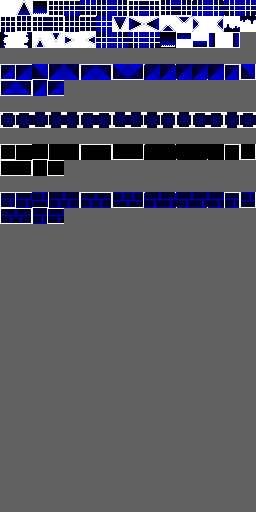
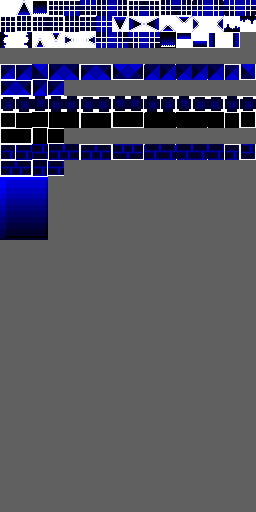
Import new ground

Changed region(s): [[0.0, 0.1875, 1.0, 0.4688]]

diff --git a/src/metatiles.c b/src/metatiles.c
@@ -60,5 +60,220 @@ const SCR_ENTRY metatiles[][5] = {
     Metatile("SLAB_DOWN",  SE_BUILD(0x00, 0, 0, 0), SE_BUILD(0x00, 0, 0, 0),      SE_BUILD(0x4e, 0, 0, V_FLIP), SE_BUILD(0x4f, 0, 0, V_FLIP), COL_SLAB_BOTTOM)
     Metatile("SLAB_LEFT",  SE_BUILD(0x50, 0, 0, 0), SE_BUILD(0x00, 0, 0, 0),      SE_BUILD(0x51, 0, 0, 0),      SE_BUILD(0x00, 0, 0, 0),      COL_NONE)
     Metatile("SLAB_RIGHT", SE_BUILD(0x00, 0, 0, 0), SE_BUILD(0x50, 0, H_FLIP, 0), SE_BUILD(0x00, 0, 0, 0),      SE_BUILD(0x51, 0, H_FLIP, 0), COL_NONE)
+
+    Metatile("EMPTY",    SE_BUILD(0, 0, 0, 0), SE_BUILD(0, 0, 0, 0), SE_BUILD(0, 0, 0, 0), SE_BUILD(0, 0, 0, 0), COL_NONE)
+
+
+    Metatile("EMPTY",    SE_BUILD(0, 0, 0, 0), SE_BUILD(0, 0, 0, 0), SE_BUILD(0, 0, 0, 0), SE_BUILD(0, 0, 0, 0), COL_NONE) // 0x30
+    Metatile("EMPTY",    SE_BUILD(0, 0, 0, 0), SE_BUILD(0, 0, 0, 0), SE_BUILD(0, 0, 0, 0), SE_BUILD(0, 0, 0, 0), COL_NONE)
+    Metatile("EMPTY",    SE_BUILD(0, 0, 0, 0), SE_BUILD(0, 0, 0, 0), SE_BUILD(0, 0, 0, 0), SE_BUILD(0, 0, 0, 0), COL_NONE)
+    Metatile("EMPTY",    SE_BUILD(0, 0, 0, 0), SE_BUILD(0, 0, 0, 0), SE_BUILD(0, 0, 0, 0), SE_BUILD(0, 0, 0, 0), COL_NONE)
+    Metatile("EMPTY",    SE_BUILD(0, 0, 0, 0), SE_BUILD(0, 0, 0, 0), SE_BUILD(0, 0, 0, 0), SE_BUILD(0, 0, 0, 0), COL_NONE)
+    Metatile("EMPTY",    SE_BUILD(0, 0, 0, 0), SE_BUILD(0, 0, 0, 0), SE_BUILD(0, 0, 0, 0), SE_BUILD(0, 0, 0, 0), COL_NONE)
+    Metatile("EMPTY",    SE_BUILD(0, 0, 0, 0), SE_BUILD(0, 0, 0, 0), SE_BUILD(0, 0, 0, 0), SE_BUILD(0, 0, 0, 0), COL_NONE)
+    Metatile("EMPTY",    SE_BUILD(0, 0, 0, 0), SE_BUILD(0, 0, 0, 0), SE_BUILD(0, 0, 0, 0), SE_BUILD(0, 0, 0, 0), COL_NONE)
+    Metatile("EMPTY",    SE_BUILD(0, 0, 0, 0), SE_BUILD(0, 0, 0, 0), SE_BUILD(0, 0, 0, 0), SE_BUILD(0, 0, 0, 0), COL_NONE) // 0x38
+    Metatile("EMPTY",    SE_BUILD(0, 0, 0, 0), SE_BUILD(0, 0, 0, 0), SE_BUILD(0, 0, 0, 0), SE_BUILD(0, 0, 0, 0), COL_NONE)
+    Metatile("EMPTY",    SE_BUILD(0, 0, 0, 0), SE_BUILD(0, 0, 0, 0), SE_BUILD(0, 0, 0, 0), SE_BUILD(0, 0, 0, 0), COL_NONE)
+    Metatile("EMPTY",    SE_BUILD(0, 0, 0, 0), SE_BUILD(0, 0, 0, 0), SE_BUILD(0, 0, 0, 0), SE_BUILD(0, 0, 0, 0), COL_NONE)
+    Metatile("EMPTY",    SE_BUILD(0, 0, 0, 0), SE_BUILD(0, 0, 0, 0), SE_BUILD(0, 0, 0, 0), SE_BUILD(0, 0, 0, 0), COL_NONE)
+    Metatile("EMPTY",    SE_BUILD(0, 0, 0, 0), SE_BUILD(0, 0, 0, 0), SE_BUILD(0, 0, 0, 0), SE_BUILD(0, 0, 0, 0), COL_NONE)
+    Metatile("EMPTY",    SE_BUILD(0, 0, 0, 0), SE_BUILD(0, 0, 0, 0), SE_BUILD(0, 0, 0, 0), SE_BUILD(0, 0, 0, 0), COL_NONE)
+    Metatile("EMPTY",    SE_BUILD(0, 0, 0, 0), SE_BUILD(0, 0, 0, 0), SE_BUILD(0, 0, 0, 0), SE_BUILD(0, 0, 0, 0), COL_NONE)
+
+    Metatile("EMPTY",    SE_BUILD(0, 0, 0, 0), SE_BUILD(0, 0, 0, 0), SE_BUILD(0, 0, 0, 0), SE_BUILD(0, 0, 0, 0), COL_NONE) // 0x40
+    Metatile("EMPTY",    SE_BUILD(0, 0, 0, 0), SE_BUILD(0, 0, 0, 0), SE_BUILD(0, 0, 0, 0), SE_BUILD(0, 0, 0, 0), COL_NONE)
+    Metatile("EMPTY",    SE_BUILD(0, 0, 0, 0), SE_BUILD(0, 0, 0, 0), SE_BUILD(0, 0, 0, 0), SE_BUILD(0, 0, 0, 0), COL_NONE)
+    Metatile("EMPTY",    SE_BUILD(0, 0, 0, 0), SE_BUILD(0, 0, 0, 0), SE_BUILD(0, 0, 0, 0), SE_BUILD(0, 0, 0, 0), COL_NONE)
+    Metatile("EMPTY",    SE_BUILD(0, 0, 0, 0), SE_BUILD(0, 0, 0, 0), SE_BUILD(0, 0, 0, 0), SE_BUILD(0, 0, 0, 0), COL_NONE)
+    Metatile("EMPTY",    SE_BUILD(0, 0, 0, 0), SE_BUILD(0, 0, 0, 0), SE_BUILD(0, 0, 0, 0), SE_BUILD(0, 0, 0, 0), COL_NONE)
+    Metatile("EMPTY",    SE_BUILD(0, 0, 0, 0), SE_BUILD(0, 0, 0, 0), SE_BUILD(0, 0, 0, 0), SE_BUILD(0, 0, 0, 0), COL_NONE)
+    Metatile("EMPTY",    SE_BUILD(0, 0, 0, 0), SE_BUILD(0, 0, 0, 0), SE_BUILD(0, 0, 0, 0), SE_BUILD(0, 0, 0, 0), COL_NONE)
+    Metatile("EMPTY",    SE_BUILD(0, 0, 0, 0), SE_BUILD(0, 0, 0, 0), SE_BUILD(0, 0, 0, 0), SE_BUILD(0, 0, 0, 0), COL_NONE) // 0x48
+    Metatile("EMPTY",    SE_BUILD(0, 0, 0, 0), SE_BUILD(0, 0, 0, 0), SE_BUILD(0, 0, 0, 0), SE_BUILD(0, 0, 0, 0), COL_NONE)
+    Metatile("EMPTY",    SE_BUILD(0, 0, 0, 0), SE_BUILD(0, 0, 0, 0), SE_BUILD(0, 0, 0, 0), SE_BUILD(0, 0, 0, 0), COL_NONE)
+    Metatile("EMPTY",    SE_BUILD(0, 0, 0, 0), SE_BUILD(0, 0, 0, 0), SE_BUILD(0, 0, 0, 0), SE_BUILD(0, 0, 0, 0), COL_NONE)
+    Metatile("EMPTY",    SE_BUILD(0, 0, 0, 0), SE_BUILD(0, 0, 0, 0), SE_BUILD(0, 0, 0, 0), SE_BUILD(0, 0, 0, 0), COL_NONE)
+    Metatile("EMPTY",    SE_BUILD(0, 0, 0, 0), SE_BUILD(0, 0, 0, 0), SE_BUILD(0, 0, 0, 0), SE_BUILD(0, 0, 0, 0), COL_NONE)
+    Metatile("EMPTY",    SE_BUILD(0, 0, 0, 0), SE_BUILD(0, 0, 0, 0), SE_BUILD(0, 0, 0, 0), SE_BUILD(0, 0, 0, 0), COL_NONE)
+    Metatile("EMPTY",    SE_BUILD(0, 0, 0, 0), SE_BUILD(0, 0, 0, 0), SE_BUILD(0, 0, 0, 0), SE_BUILD(0, 0, 0, 0), COL_NONE)
+
+    Metatile("EMPTY",    SE_BUILD(0, 0, 0, 0), SE_BUILD(0, 0, 0, 0), SE_BUILD(0, 0, 0, 0), SE_BUILD(0, 0, 0, 0), COL_NONE) // 0x50
+    Metatile("EMPTY",    SE_BUILD(0, 0, 0, 0), SE_BUILD(0, 0, 0, 0), SE_BUILD(0, 0, 0, 0), SE_BUILD(0, 0, 0, 0), COL_NONE)
+    Metatile("EMPTY",    SE_BUILD(0, 0, 0, 0), SE_BUILD(0, 0, 0, 0), SE_BUILD(0, 0, 0, 0), SE_BUILD(0, 0, 0, 0), COL_NONE)
+    Metatile("EMPTY",    SE_BUILD(0, 0, 0, 0), SE_BUILD(0, 0, 0, 0), SE_BUILD(0, 0, 0, 0), SE_BUILD(0, 0, 0, 0), COL_NONE)
+    Metatile("EMPTY",    SE_BUILD(0, 0, 0, 0), SE_BUILD(0, 0, 0, 0), SE_BUILD(0, 0, 0, 0), SE_BUILD(0, 0, 0, 0), COL_NONE)
+    Metatile("EMPTY",    SE_BUILD(0, 0, 0, 0), SE_BUILD(0, 0, 0, 0), SE_BUILD(0, 0, 0, 0), SE_BUILD(0, 0, 0, 0), COL_NONE)
+    Metatile("EMPTY",    SE_BUILD(0, 0, 0, 0), SE_BUILD(0, 0, 0, 0), SE_BUILD(0, 0, 0, 0), SE_BUILD(0, 0, 0, 0), COL_NONE)
+    Metatile("EMPTY",    SE_BUILD(0, 0, 0, 0), SE_BUILD(0, 0, 0, 0), SE_BUILD(0, 0, 0, 0), SE_BUILD(0, 0, 0, 0), COL_NONE)
+    Metatile("EMPTY",    SE_BUILD(0, 0, 0, 0), SE_BUILD(0, 0, 0, 0), SE_BUILD(0, 0, 0, 0), SE_BUILD(0, 0, 0, 0), COL_NONE) // 0x58
+    Metatile("EMPTY",    SE_BUILD(0, 0, 0, 0), SE_BUILD(0, 0, 0, 0), SE_BUILD(0, 0, 0, 0), SE_BUILD(0, 0, 0, 0), COL_NONE)
+    Metatile("EMPTY",    SE_BUILD(0, 0, 0, 0), SE_BUILD(0, 0, 0, 0), SE_BUILD(0, 0, 0, 0), SE_BUILD(0, 0, 0, 0), COL_NONE)
+    Metatile("EMPTY",    SE_BUILD(0, 0, 0, 0), SE_BUILD(0, 0, 0, 0), SE_BUILD(0, 0, 0, 0), SE_BUILD(0, 0, 0, 0), COL_NONE)
+    Metatile("EMPTY",    SE_BUILD(0, 0, 0, 0), SE_BUILD(0, 0, 0, 0), SE_BUILD(0, 0, 0, 0), SE_BUILD(0, 0, 0, 0), COL_NONE)
+    Metatile("EMPTY",    SE_BUILD(0, 0, 0, 0), SE_BUILD(0, 0, 0, 0), SE_BUILD(0, 0, 0, 0), SE_BUILD(0, 0, 0, 0), COL_NONE)
+    Metatile("EMPTY",    SE_BUILD(0, 0, 0, 0), SE_BUILD(0, 0, 0, 0), SE_BUILD(0, 0, 0, 0), SE_BUILD(0, 0, 0, 0), COL_NONE)
+    Metatile("EMPTY",    SE_BUILD(0, 0, 0, 0), SE_BUILD(0, 0, 0, 0), SE_BUILD(0, 0, 0, 0), SE_BUILD(0, 0, 0, 0), COL_NONE)
+
+    Metatile("EMPTY",    SE_BUILD(0, 0, 0, 0), SE_BUILD(0, 0, 0, 0), SE_BUILD(0, 0, 0, 0), SE_BUILD(0, 0, 0, 0), COL_NONE) // 0x60
+    Metatile("EMPTY",    SE_BUILD(0, 0, 0, 0), SE_BUILD(0, 0, 0, 0), SE_BUILD(0, 0, 0, 0), SE_BUILD(0, 0, 0, 0), COL_NONE)
+    Metatile("EMPTY",    SE_BUILD(0, 0, 0, 0), SE_BUILD(0, 0, 0, 0), SE_BUILD(0, 0, 0, 0), SE_BUILD(0, 0, 0, 0), COL_NONE)
+    Metatile("EMPTY",    SE_BUILD(0, 0, 0, 0), SE_BUILD(0, 0, 0, 0), SE_BUILD(0, 0, 0, 0), SE_BUILD(0, 0, 0, 0), COL_NONE)
+    Metatile("EMPTY",    SE_BUILD(0, 0, 0, 0), SE_BUILD(0, 0, 0, 0), SE_BUILD(0, 0, 0, 0), SE_BUILD(0, 0, 0, 0), COL_NONE)
+    Metatile("EMPTY",    SE_BUILD(0, 0, 0, 0), SE_BUILD(0, 0, 0, 0), SE_BUILD(0, 0, 0, 0), SE_BUILD(0, 0, 0, 0), COL_NONE)
+    Metatile("EMPTY",    SE_BUILD(0, 0, 0, 0), SE_BUILD(0, 0, 0, 0), SE_BUILD(0, 0, 0, 0), SE_BUILD(0, 0, 0, 0), COL_NONE)
+    Metatile("EMPTY",    SE_BUILD(0, 0, 0, 0), SE_BUILD(0, 0, 0, 0), SE_BUILD(0, 0, 0, 0), SE_BUILD(0, 0, 0, 0), COL_NONE)
+    Metatile("EMPTY",    SE_BUILD(0, 0, 0, 0), SE_BUILD(0, 0, 0, 0), SE_BUILD(0, 0, 0, 0), SE_BUILD(0, 0, 0, 0), COL_NONE) // 0x68
+    Metatile("EMPTY",    SE_BUILD(0, 0, 0, 0), SE_BUILD(0, 0, 0, 0), SE_BUILD(0, 0, 0, 0), SE_BUILD(0, 0, 0, 0), COL_NONE)
+    Metatile("EMPTY",    SE_BUILD(0, 0, 0, 0), SE_BUILD(0, 0, 0, 0), SE_BUILD(0, 0, 0, 0), SE_BUILD(0, 0, 0, 0), COL_NONE)
+    Metatile("EMPTY",    SE_BUILD(0, 0, 0, 0), SE_BUILD(0, 0, 0, 0), SE_BUILD(0, 0, 0, 0), SE_BUILD(0, 0, 0, 0), COL_NONE)
+    Metatile("EMPTY",    SE_BUILD(0, 0, 0, 0), SE_BUILD(0, 0, 0, 0), SE_BUILD(0, 0, 0, 0), SE_BUILD(0, 0, 0, 0), COL_NONE)
+    Metatile("EMPTY",    SE_BUILD(0, 0, 0, 0), SE_BUILD(0, 0, 0, 0), SE_BUILD(0, 0, 0, 0), SE_BUILD(0, 0, 0, 0), COL_NONE)
+    Metatile("EMPTY",    SE_BUILD(0, 0, 0, 0), SE_BUILD(0, 0, 0, 0), SE_BUILD(0, 0, 0, 0), SE_BUILD(0, 0, 0, 0), COL_NONE)
+    Metatile("EMPTY",    SE_BUILD(0, 0, 0, 0), SE_BUILD(0, 0, 0, 0), SE_BUILD(0, 0, 0, 0), SE_BUILD(0, 0, 0, 0), COL_NONE)
+    
+    Metatile("EMPTY",    SE_BUILD(0, 0, 0, 0), SE_BUILD(0, 0, 0, 0), SE_BUILD(0, 0, 0, 0), SE_BUILD(0, 0, 0, 0), COL_NONE) // 0x70
+    Metatile("EMPTY",    SE_BUILD(0, 0, 0, 0), SE_BUILD(0, 0, 0, 0), SE_BUILD(0, 0, 0, 0), SE_BUILD(0, 0, 0, 0), COL_NONE)
+    Metatile("EMPTY",    SE_BUILD(0, 0, 0, 0), SE_BUILD(0, 0, 0, 0), SE_BUILD(0, 0, 0, 0), SE_BUILD(0, 0, 0, 0), COL_NONE)
+    Metatile("EMPTY",    SE_BUILD(0, 0, 0, 0), SE_BUILD(0, 0, 0, 0), SE_BUILD(0, 0, 0, 0), SE_BUILD(0, 0, 0, 0), COL_NONE)
+    Metatile("EMPTY",    SE_BUILD(0, 0, 0, 0), SE_BUILD(0, 0, 0, 0), SE_BUILD(0, 0, 0, 0), SE_BUILD(0, 0, 0, 0), COL_NONE)
+    Metatile("EMPTY",    SE_BUILD(0, 0, 0, 0), SE_BUILD(0, 0, 0, 0), SE_BUILD(0, 0, 0, 0), SE_BUILD(0, 0, 0, 0), COL_NONE)
+    Metatile("EMPTY",    SE_BUILD(0, 0, 0, 0), SE_BUILD(0, 0, 0, 0), SE_BUILD(0, 0, 0, 0), SE_BUILD(0, 0, 0, 0), COL_NONE)
+    Metatile("EMPTY",    SE_BUILD(0, 0, 0, 0), SE_BUILD(0, 0, 0, 0), SE_BUILD(0, 0, 0, 0), SE_BUILD(0, 0, 0, 0), COL_NONE)
+    Metatile("EMPTY",    SE_BUILD(0, 0, 0, 0), SE_BUILD(0, 0, 0, 0), SE_BUILD(0, 0, 0, 0), SE_BUILD(0, 0, 0, 0), COL_NONE) // 0x78
+    Metatile("EMPTY",    SE_BUILD(0, 0, 0, 0), SE_BUILD(0, 0, 0, 0), SE_BUILD(0, 0, 0, 0), SE_BUILD(0, 0, 0, 0), COL_NONE)
+    Metatile("EMPTY",    SE_BUILD(0, 0, 0, 0), SE_BUILD(0, 0, 0, 0), SE_BUILD(0, 0, 0, 0), SE_BUILD(0, 0, 0, 0), COL_NONE)
+    Metatile("EMPTY",    SE_BUILD(0, 0, 0, 0), SE_BUILD(0, 0, 0, 0), SE_BUILD(0, 0, 0, 0), SE_BUILD(0, 0, 0, 0), COL_NONE)
+    Metatile("EMPTY",    SE_BUILD(0, 0, 0, 0), SE_BUILD(0, 0, 0, 0), SE_BUILD(0, 0, 0, 0), SE_BUILD(0, 0, 0, 0), COL_NONE)
+    Metatile("EMPTY",    SE_BUILD(0, 0, 0, 0), SE_BUILD(0, 0, 0, 0), SE_BUILD(0, 0, 0, 0), SE_BUILD(0, 0, 0, 0), COL_NONE)
+    Metatile("EMPTY",    SE_BUILD(0, 0, 0, 0), SE_BUILD(0, 0, 0, 0), SE_BUILD(0, 0, 0, 0), SE_BUILD(0, 0, 0, 0), COL_NONE)
+    Metatile("EMPTY",    SE_BUILD(0, 0, 0, 0), SE_BUILD(0, 0, 0, 0), SE_BUILD(0, 0, 0, 0), SE_BUILD(0, 0, 0, 0), COL_NONE)
+
+    
+    
+    Metatile("EMPTY",    SE_BUILD(0, 0, 0, 0), SE_BUILD(0, 0, 0, 0), SE_BUILD(0, 0, 0, 0), SE_BUILD(0, 0, 0, 0), COL_NONE) // 0x80
+    Metatile("EMPTY",    SE_BUILD(0, 0, 0, 0), SE_BUILD(0, 0, 0, 0), SE_BUILD(0, 0, 0, 0), SE_BUILD(0, 0, 0, 0), COL_NONE)
+    Metatile("EMPTY",    SE_BUILD(0, 0, 0, 0), SE_BUILD(0, 0, 0, 0), SE_BUILD(0, 0, 0, 0), SE_BUILD(0, 0, 0, 0), COL_NONE)
+    Metatile("EMPTY",    SE_BUILD(0, 0, 0, 0), SE_BUILD(0, 0, 0, 0), SE_BUILD(0, 0, 0, 0), SE_BUILD(0, 0, 0, 0), COL_NONE)
+    Metatile("EMPTY",    SE_BUILD(0, 0, 0, 0), SE_BUILD(0, 0, 0, 0), SE_BUILD(0, 0, 0, 0), SE_BUILD(0, 0, 0, 0), COL_NONE)
+    Metatile("EMPTY",    SE_BUILD(0, 0, 0, 0), SE_BUILD(0, 0, 0, 0), SE_BUILD(0, 0, 0, 0), SE_BUILD(0, 0, 0, 0), COL_NONE)
+    Metatile("EMPTY",    SE_BUILD(0, 0, 0, 0), SE_BUILD(0, 0, 0, 0), SE_BUILD(0, 0, 0, 0), SE_BUILD(0, 0, 0, 0), COL_NONE)
+    Metatile("EMPTY",    SE_BUILD(0, 0, 0, 0), SE_BUILD(0, 0, 0, 0), SE_BUILD(0, 0, 0, 0), SE_BUILD(0, 0, 0, 0), COL_NONE)
+    Metatile("EMPTY",    SE_BUILD(0, 0, 0, 0), SE_BUILD(0, 0, 0, 0), SE_BUILD(0, 0, 0, 0), SE_BUILD(0, 0, 0, 0), COL_NONE) // 0x88
+    Metatile("EMPTY",    SE_BUILD(0, 0, 0, 0), SE_BUILD(0, 0, 0, 0), SE_BUILD(0, 0, 0, 0), SE_BUILD(0, 0, 0, 0), COL_NONE)
+    Metatile("EMPTY",    SE_BUILD(0, 0, 0, 0), SE_BUILD(0, 0, 0, 0), SE_BUILD(0, 0, 0, 0), SE_BUILD(0, 0, 0, 0), COL_NONE)
+    Metatile("EMPTY",    SE_BUILD(0, 0, 0, 0), SE_BUILD(0, 0, 0, 0), SE_BUILD(0, 0, 0, 0), SE_BUILD(0, 0, 0, 0), COL_NONE)
+    Metatile("EMPTY",    SE_BUILD(0, 0, 0, 0), SE_BUILD(0, 0, 0, 0), SE_BUILD(0, 0, 0, 0), SE_BUILD(0, 0, 0, 0), COL_NONE)
+    Metatile("EMPTY",    SE_BUILD(0, 0, 0, 0), SE_BUILD(0, 0, 0, 0), SE_BUILD(0, 0, 0, 0), SE_BUILD(0, 0, 0, 0), COL_NONE)
+    Metatile("EMPTY",    SE_BUILD(0, 0, 0, 0), SE_BUILD(0, 0, 0, 0), SE_BUILD(0, 0, 0, 0), SE_BUILD(0, 0, 0, 0), COL_NONE)
+    Metatile("EMPTY",    SE_BUILD(0, 0, 0, 0), SE_BUILD(0, 0, 0, 0), SE_BUILD(0, 0, 0, 0), SE_BUILD(0, 0, 0, 0), COL_NONE)
+
+    
+    
+    Metatile("EMPTY",    SE_BUILD(0, 0, 0, 0), SE_BUILD(0, 0, 0, 0), SE_BUILD(0, 0, 0, 0), SE_BUILD(0, 0, 0, 0), COL_NONE) // 0x90
+    Metatile("EMPTY",    SE_BUILD(0, 0, 0, 0), SE_BUILD(0, 0, 0, 0), SE_BUILD(0, 0, 0, 0), SE_BUILD(0, 0, 0, 0), COL_NONE)
+    Metatile("EMPTY",    SE_BUILD(0, 0, 0, 0), SE_BUILD(0, 0, 0, 0), SE_BUILD(0, 0, 0, 0), SE_BUILD(0, 0, 0, 0), COL_NONE)
+    Metatile("EMPTY",    SE_BUILD(0, 0, 0, 0), SE_BUILD(0, 0, 0, 0), SE_BUILD(0, 0, 0, 0), SE_BUILD(0, 0, 0, 0), COL_NONE)
+    Metatile("EMPTY",    SE_BUILD(0, 0, 0, 0), SE_BUILD(0, 0, 0, 0), SE_BUILD(0, 0, 0, 0), SE_BUILD(0, 0, 0, 0), COL_NONE)
+    Metatile("EMPTY",    SE_BUILD(0, 0, 0, 0), SE_BUILD(0, 0, 0, 0), SE_BUILD(0, 0, 0, 0), SE_BUILD(0, 0, 0, 0), COL_NONE)
+    Metatile("EMPTY",    SE_BUILD(0, 0, 0, 0), SE_BUILD(0, 0, 0, 0), SE_BUILD(0, 0, 0, 0), SE_BUILD(0, 0, 0, 0), COL_NONE)
+    Metatile("EMPTY",    SE_BUILD(0, 0, 0, 0), SE_BUILD(0, 0, 0, 0), SE_BUILD(0, 0, 0, 0), SE_BUILD(0, 0, 0, 0), COL_NONE)
+    Metatile("EMPTY",    SE_BUILD(0, 0, 0, 0), SE_BUILD(0, 0, 0, 0), SE_BUILD(0, 0, 0, 0), SE_BUILD(0, 0, 0, 0), COL_NONE) // 0x98
+    Metatile("EMPTY",    SE_BUILD(0, 0, 0, 0), SE_BUILD(0, 0, 0, 0), SE_BUILD(0, 0, 0, 0), SE_BUILD(0, 0, 0, 0), COL_NONE)
+    Metatile("EMPTY",    SE_BUILD(0, 0, 0, 0), SE_BUILD(0, 0, 0, 0), SE_BUILD(0, 0, 0, 0), SE_BUILD(0, 0, 0, 0), COL_NONE)
+    Metatile("EMPTY",    SE_BUILD(0, 0, 0, 0), SE_BUILD(0, 0, 0, 0), SE_BUILD(0, 0, 0, 0), SE_BUILD(0, 0, 0, 0), COL_NONE)
+    Metatile("EMPTY",    SE_BUILD(0, 0, 0, 0), SE_BUILD(0, 0, 0, 0), SE_BUILD(0, 0, 0, 0), SE_BUILD(0, 0, 0, 0), COL_NONE)
+    Metatile("EMPTY",    SE_BUILD(0, 0, 0, 0), SE_BUILD(0, 0, 0, 0), SE_BUILD(0, 0, 0, 0), SE_BUILD(0, 0, 0, 0), COL_NONE)
+    Metatile("EMPTY",    SE_BUILD(0, 0, 0, 0), SE_BUILD(0, 0, 0, 0), SE_BUILD(0, 0, 0, 0), SE_BUILD(0, 0, 0, 0), COL_NONE)
+    Metatile("EMPTY",    SE_BUILD(0, 0, 0, 0), SE_BUILD(0, 0, 0, 0), SE_BUILD(0, 0, 0, 0), SE_BUILD(0, 0, 0, 0), COL_NONE)
+
+    
+    
+    Metatile("EMPTY",    SE_BUILD(0, 0, 0, 0), SE_BUILD(0, 0, 0, 0), SE_BUILD(0, 0, 0, 0), SE_BUILD(0, 0, 0, 0), COL_NONE) // 0xA0
+    Metatile("EMPTY",    SE_BUILD(0, 0, 0, 0), SE_BUILD(0, 0, 0, 0), SE_BUILD(0, 0, 0, 0), SE_BUILD(0, 0, 0, 0), COL_NONE)
+    Metatile("EMPTY",    SE_BUILD(0, 0, 0, 0), SE_BUILD(0, 0, 0, 0), SE_BUILD(0, 0, 0, 0), SE_BUILD(0, 0, 0, 0), COL_NONE)
+    Metatile("EMPTY",    SE_BUILD(0, 0, 0, 0), SE_BUILD(0, 0, 0, 0), SE_BUILD(0, 0, 0, 0), SE_BUILD(0, 0, 0, 0), COL_NONE)
+    Metatile("EMPTY",    SE_BUILD(0, 0, 0, 0), SE_BUILD(0, 0, 0, 0), SE_BUILD(0, 0, 0, 0), SE_BUILD(0, 0, 0, 0), COL_NONE)
+    Metatile("EMPTY",    SE_BUILD(0, 0, 0, 0), SE_BUILD(0, 0, 0, 0), SE_BUILD(0, 0, 0, 0), SE_BUILD(0, 0, 0, 0), COL_NONE)
+    Metatile("EMPTY",    SE_BUILD(0, 0, 0, 0), SE_BUILD(0, 0, 0, 0), SE_BUILD(0, 0, 0, 0), SE_BUILD(0, 0, 0, 0), COL_NONE)
+    Metatile("EMPTY",    SE_BUILD(0, 0, 0, 0), SE_BUILD(0, 0, 0, 0), SE_BUILD(0, 0, 0, 0), SE_BUILD(0, 0, 0, 0), COL_NONE)
+    Metatile("EMPTY",    SE_BUILD(0, 0, 0, 0), SE_BUILD(0, 0, 0, 0), SE_BUILD(0, 0, 0, 0), SE_BUILD(0, 0, 0, 0), COL_NONE) // 0xA8
+    Metatile("EMPTY",    SE_BUILD(0, 0, 0, 0), SE_BUILD(0, 0, 0, 0), SE_BUILD(0, 0, 0, 0), SE_BUILD(0, 0, 0, 0), COL_NONE)
+    Metatile("EMPTY",    SE_BUILD(0, 0, 0, 0), SE_BUILD(0, 0, 0, 0), SE_BUILD(0, 0, 0, 0), SE_BUILD(0, 0, 0, 0), COL_NONE)
+    Metatile("EMPTY",    SE_BUILD(0, 0, 0, 0), SE_BUILD(0, 0, 0, 0), SE_BUILD(0, 0, 0, 0), SE_BUILD(0, 0, 0, 0), COL_NONE)
+    Metatile("EMPTY",    SE_BUILD(0, 0, 0, 0), SE_BUILD(0, 0, 0, 0), SE_BUILD(0, 0, 0, 0), SE_BUILD(0, 0, 0, 0), COL_NONE)
+    Metatile("EMPTY",    SE_BUILD(0, 0, 0, 0), SE_BUILD(0, 0, 0, 0), SE_BUILD(0, 0, 0, 0), SE_BUILD(0, 0, 0, 0), COL_NONE)
+    Metatile("EMPTY",    SE_BUILD(0, 0, 0, 0), SE_BUILD(0, 0, 0, 0), SE_BUILD(0, 0, 0, 0), SE_BUILD(0, 0, 0, 0), COL_NONE)
+    Metatile("EMPTY",    SE_BUILD(0, 0, 0, 0), SE_BUILD(0, 0, 0, 0), SE_BUILD(0, 0, 0, 0), SE_BUILD(0, 0, 0, 0), COL_NONE)
+
+    
+    
+    Metatile("GROUND_1",    SE_BUILD(0x180, 4, 0, 0), SE_BUILD(0x181, 4, 0, 0), SE_BUILD(0x190, 4, 0, 0), SE_BUILD(0x191, 4, 0, 0), COL_ALL) // 0xB0
+    Metatile("GROUND_2",    SE_BUILD(0x181, 4, 0, 0), SE_BUILD(0x181, 4, 0, 0), SE_BUILD(0x191, 4, 0, 0), SE_BUILD(0x191, 4, 0, 0), COL_ALL)
+    Metatile("GROUND_3",    SE_BUILD(0x181, 4, 0, 0), SE_BUILD(0x182, 4, 0, 0), SE_BUILD(0x191, 4, 0, 0), SE_BUILD(0x192, 4, 0, 0), COL_ALL)
+    Metatile("EMPTY",       SE_BUILD(0, 0, 0, 0), SE_BUILD(0, 0, 0, 0), SE_BUILD(0, 0, 0, 0), SE_BUILD(0, 0, 0, 0), COL_NONE)
+    Metatile("EMPTY",       SE_BUILD(0, 0, 0, 0), SE_BUILD(0, 0, 0, 0), SE_BUILD(0, 0, 0, 0), SE_BUILD(0, 0, 0, 0), COL_NONE)
+    Metatile("EMPTY",       SE_BUILD(0, 0, 0, 0), SE_BUILD(0, 0, 0, 0), SE_BUILD(0, 0, 0, 0), SE_BUILD(0, 0, 0, 0), COL_NONE)
+    Metatile("EMPTY",       SE_BUILD(0, 0, 0, 0), SE_BUILD(0, 0, 0, 0), SE_BUILD(0, 0, 0, 0), SE_BUILD(0, 0, 0, 0), COL_NONE)
+    Metatile("EMPTY",       SE_BUILD(0, 0, 0, 0), SE_BUILD(0, 0, 0, 0), SE_BUILD(0, 0, 0, 0), SE_BUILD(0, 0, 0, 0), COL_NONE)
+    Metatile("EMPTY",       SE_BUILD(0, 0, 0, 0), SE_BUILD(0, 0, 0, 0), SE_BUILD(0, 0, 0, 0), SE_BUILD(0, 0, 0, 0), COL_NONE) // 0xB8
+    Metatile("EMPTY",       SE_BUILD(0, 0, 0, 0), SE_BUILD(0, 0, 0, 0), SE_BUILD(0, 0, 0, 0), SE_BUILD(0, 0, 0, 0), COL_NONE)
+    Metatile("EMPTY",       SE_BUILD(0, 0, 0, 0), SE_BUILD(0, 0, 0, 0), SE_BUILD(0, 0, 0, 0), SE_BUILD(0, 0, 0, 0), COL_NONE)
+    Metatile("EMPTY",       SE_BUILD(0, 0, 0, 0), SE_BUILD(0, 0, 0, 0), SE_BUILD(0, 0, 0, 0), SE_BUILD(0, 0, 0, 0), COL_NONE)
+    Metatile("EMPTY",       SE_BUILD(0, 0, 0, 0), SE_BUILD(0, 0, 0, 0), SE_BUILD(0, 0, 0, 0), SE_BUILD(0, 0, 0, 0), COL_NONE)
+    Metatile("EMPTY",       SE_BUILD(0, 0, 0, 0), SE_BUILD(0, 0, 0, 0), SE_BUILD(0, 0, 0, 0), SE_BUILD(0, 0, 0, 0), COL_NONE)
+    Metatile("EMPTY",       SE_BUILD(0, 0, 0, 0), SE_BUILD(0, 0, 0, 0), SE_BUILD(0, 0, 0, 0), SE_BUILD(0, 0, 0, 0), COL_NONE)
+    Metatile("EMPTY",       SE_BUILD(0, 0, 0, 0), SE_BUILD(0, 0, 0, 0), SE_BUILD(0, 0, 0, 0), SE_BUILD(0, 0, 0, 0), COL_NONE)
+
+    Metatile("GROUND_4",    SE_BUILD(0x1a0, 4, 0, 0), SE_BUILD(0x1a1, 4, 0, 0), SE_BUILD(0x1b0, 4, 0, 0), SE_BUILD(0x1b1, 4, 0, 0), COL_ALL) // 0xC0
+    Metatile("GROUND_5",    SE_BUILD(0x1a1, 4, 0, 0), SE_BUILD(0x1a1, 4, 0, 0), SE_BUILD(0x1b1, 4, 0, 0), SE_BUILD(0x1b1, 4, 0, 0), COL_ALL)
+    Metatile("GROUND_6",    SE_BUILD(0x1a1, 4, 0, 0), SE_BUILD(0x1a2, 4, 0, 0), SE_BUILD(0x1b1, 4, 0, 0), SE_BUILD(0x1b2, 4, 0, 0), COL_ALL)
+    Metatile("EMPTY",       SE_BUILD(0, 0, 0, 0), SE_BUILD(0, 0, 0, 0), SE_BUILD(0, 0, 0, 0), SE_BUILD(0, 0, 0, 0), COL_NONE)
+    Metatile("EMPTY",       SE_BUILD(0, 0, 0, 0), SE_BUILD(0, 0, 0, 0), SE_BUILD(0, 0, 0, 0), SE_BUILD(0, 0, 0, 0), COL_NONE)
+    Metatile("EMPTY",       SE_BUILD(0, 0, 0, 0), SE_BUILD(0, 0, 0, 0), SE_BUILD(0, 0, 0, 0), SE_BUILD(0, 0, 0, 0), COL_NONE)
+    Metatile("EMPTY",       SE_BUILD(0, 0, 0, 0), SE_BUILD(0, 0, 0, 0), SE_BUILD(0, 0, 0, 0), SE_BUILD(0, 0, 0, 0), COL_NONE)
+    Metatile("EMPTY",       SE_BUILD(0, 0, 0, 0), SE_BUILD(0, 0, 0, 0), SE_BUILD(0, 0, 0, 0), SE_BUILD(0, 0, 0, 0), COL_NONE)
+    Metatile("EMPTY",       SE_BUILD(0, 0, 0, 0), SE_BUILD(0, 0, 0, 0), SE_BUILD(0, 0, 0, 0), SE_BUILD(0, 0, 0, 0), COL_NONE) // 0xC8
+    Metatile("EMPTY",       SE_BUILD(0, 0, 0, 0), SE_BUILD(0, 0, 0, 0), SE_BUILD(0, 0, 0, 0), SE_BUILD(0, 0, 0, 0), COL_NONE)
+    Metatile("EMPTY",       SE_BUILD(0, 0, 0, 0), SE_BUILD(0, 0, 0, 0), SE_BUILD(0, 0, 0, 0), SE_BUILD(0, 0, 0, 0), COL_NONE)
+    Metatile("EMPTY",       SE_BUILD(0, 0, 0, 0), SE_BUILD(0, 0, 0, 0), SE_BUILD(0, 0, 0, 0), SE_BUILD(0, 0, 0, 0), COL_NONE)
+    Metatile("EMPTY",       SE_BUILD(0, 0, 0, 0), SE_BUILD(0, 0, 0, 0), SE_BUILD(0, 0, 0, 0), SE_BUILD(0, 0, 0, 0), COL_NONE)
+    Metatile("EMPTY",       SE_BUILD(0, 0, 0, 0), SE_BUILD(0, 0, 0, 0), SE_BUILD(0, 0, 0, 0), SE_BUILD(0, 0, 0, 0), COL_NONE)
+    Metatile("EMPTY",       SE_BUILD(0, 0, 0, 0), SE_BUILD(0, 0, 0, 0), SE_BUILD(0, 0, 0, 0), SE_BUILD(0, 0, 0, 0), COL_NONE)
+    Metatile("EMPTY",       SE_BUILD(0, 0, 0, 0), SE_BUILD(0, 0, 0, 0), SE_BUILD(0, 0, 0, 0), SE_BUILD(0, 0, 0, 0), COL_NONE)
+
+    Metatile("GROUND_7",    SE_BUILD(0x1c0, 4, 0, 0), SE_BUILD(0x1c1, 4, 0, 0), SE_BUILD(0x1d0, 4, 0, 0), SE_BUILD(0x1d1, 4, 0, 0), COL_ALL) // 0xD0
+    Metatile("GROUND_8",    SE_BUILD(0x1c1, 4, 0, 0), SE_BUILD(0x1c1, 4, 0, 0), SE_BUILD(0x1d1, 4, 0, 0), SE_BUILD(0x1d1, 4, 0, 0), COL_ALL)
+    Metatile("GROUND_9",    SE_BUILD(0x1c1, 4, 0, 0), SE_BUILD(0x1c2, 4, 0, 0), SE_BUILD(0x1d1, 4, 0, 0), SE_BUILD(0x1d2, 4, 0, 0), COL_ALL)
+    Metatile("EMPTY",       SE_BUILD(0, 0, 0, 0), SE_BUILD(0, 0, 0, 0), SE_BUILD(0, 0, 0, 0), SE_BUILD(0, 0, 0, 0), COL_NONE)
+    Metatile("EMPTY",       SE_BUILD(0, 0, 0, 0), SE_BUILD(0, 0, 0, 0), SE_BUILD(0, 0, 0, 0), SE_BUILD(0, 0, 0, 0), COL_NONE)
+    Metatile("EMPTY",       SE_BUILD(0, 0, 0, 0), SE_BUILD(0, 0, 0, 0), SE_BUILD(0, 0, 0, 0), SE_BUILD(0, 0, 0, 0), COL_NONE)
+    Metatile("EMPTY",       SE_BUILD(0, 0, 0, 0), SE_BUILD(0, 0, 0, 0), SE_BUILD(0, 0, 0, 0), SE_BUILD(0, 0, 0, 0), COL_NONE)
+    Metatile("EMPTY",       SE_BUILD(0, 0, 0, 0), SE_BUILD(0, 0, 0, 0), SE_BUILD(0, 0, 0, 0), SE_BUILD(0, 0, 0, 0), COL_NONE)
+    Metatile("EMPTY",       SE_BUILD(0, 0, 0, 0), SE_BUILD(0, 0, 0, 0), SE_BUILD(0, 0, 0, 0), SE_BUILD(0, 0, 0, 0), COL_NONE) // 0xD8
+    Metatile("EMPTY",       SE_BUILD(0, 0, 0, 0), SE_BUILD(0, 0, 0, 0), SE_BUILD(0, 0, 0, 0), SE_BUILD(0, 0, 0, 0), COL_NONE)
+    Metatile("EMPTY",       SE_BUILD(0, 0, 0, 0), SE_BUILD(0, 0, 0, 0), SE_BUILD(0, 0, 0, 0), SE_BUILD(0, 0, 0, 0), COL_NONE)
+    Metatile("EMPTY",       SE_BUILD(0, 0, 0, 0), SE_BUILD(0, 0, 0, 0), SE_BUILD(0, 0, 0, 0), SE_BUILD(0, 0, 0, 0), COL_NONE)
+    Metatile("EMPTY",       SE_BUILD(0, 0, 0, 0), SE_BUILD(0, 0, 0, 0), SE_BUILD(0, 0, 0, 0), SE_BUILD(0, 0, 0, 0), COL_NONE)
+    Metatile("EMPTY",       SE_BUILD(0, 0, 0, 0), SE_BUILD(0, 0, 0, 0), SE_BUILD(0, 0, 0, 0), SE_BUILD(0, 0, 0, 0), COL_NONE)
+    Metatile("EMPTY",       SE_BUILD(0, 0, 0, 0), SE_BUILD(0, 0, 0, 0), SE_BUILD(0, 0, 0, 0), SE_BUILD(0, 0, 0, 0), COL_NONE)
+    Metatile("EMPTY",       SE_BUILD(0, 0, 0, 0), SE_BUILD(0, 0, 0, 0), SE_BUILD(0, 0, 0, 0), SE_BUILD(0, 0, 0, 0), COL_NONE)
+   
+    Metatile("GROUND_A",    SE_BUILD(0x1e0, 4, 0, 0), SE_BUILD(0x1e1, 4, 0, 0), SE_BUILD(0x1f0, 4, 0, 0), SE_BUILD(0x1f1, 4, 0, 0), COL_ALL) // 0xE0
+    Metatile("GROUND_B",    SE_BUILD(0x1e1, 4, 0, 0), SE_BUILD(0x1e1, 4, 0, 0), SE_BUILD(0x1f1, 4, 0, 0), SE_BUILD(0x1f1, 4, 0, 0), COL_ALL)
+    Metatile("GROUND_C",    SE_BUILD(0x1e1, 4, 0, 0), SE_BUILD(0x1e2, 4, 0, 0), SE_BUILD(0x1f1, 4, 0, 0), SE_BUILD(0x1f2, 4, 0, 0), COL_ALL)
+    Metatile("EMPTY",       SE_BUILD(0, 0, 0, 0), SE_BUILD(0, 0, 0, 0), SE_BUILD(0, 0, 0, 0), SE_BUILD(0, 0, 0, 0), COL_NONE)
+    Metatile("EMPTY",       SE_BUILD(0, 0, 0, 0), SE_BUILD(0, 0, 0, 0), SE_BUILD(0, 0, 0, 0), SE_BUILD(0, 0, 0, 0), COL_NONE)
+    Metatile("EMPTY",       SE_BUILD(0, 0, 0, 0), SE_BUILD(0, 0, 0, 0), SE_BUILD(0, 0, 0, 0), SE_BUILD(0, 0, 0, 0), COL_NONE)
+    Metatile("EMPTY",       SE_BUILD(0, 0, 0, 0), SE_BUILD(0, 0, 0, 0), SE_BUILD(0, 0, 0, 0), SE_BUILD(0, 0, 0, 0), COL_NONE)
+    Metatile("EMPTY",       SE_BUILD(0, 0, 0, 0), SE_BUILD(0, 0, 0, 0), SE_BUILD(0, 0, 0, 0), SE_BUILD(0, 0, 0, 0), COL_NONE)
+    Metatile("EMPTY",       SE_BUILD(0, 0, 0, 0), SE_BUILD(0, 0, 0, 0), SE_BUILD(0, 0, 0, 0), SE_BUILD(0, 0, 0, 0), COL_NONE) // 0xE8
+    Metatile("EMPTY",       SE_BUILD(0, 0, 0, 0), SE_BUILD(0, 0, 0, 0), SE_BUILD(0, 0, 0, 0), SE_BUILD(0, 0, 0, 0), COL_NONE)
+    Metatile("EMPTY",       SE_BUILD(0, 0, 0, 0), SE_BUILD(0, 0, 0, 0), SE_BUILD(0, 0, 0, 0), SE_BUILD(0, 0, 0, 0), COL_NONE)
+    Metatile("EMPTY",       SE_BUILD(0, 0, 0, 0), SE_BUILD(0, 0, 0, 0), SE_BUILD(0, 0, 0, 0), SE_BUILD(0, 0, 0, 0), COL_NONE)
+    Metatile("EMPTY",       SE_BUILD(0, 0, 0, 0), SE_BUILD(0, 0, 0, 0), SE_BUILD(0, 0, 0, 0), SE_BUILD(0, 0, 0, 0), COL_NONE)
+    Metatile("EMPTY",       SE_BUILD(0, 0, 0, 0), SE_BUILD(0, 0, 0, 0), SE_BUILD(0, 0, 0, 0), SE_BUILD(0, 0, 0, 0), COL_NONE)
+    Metatile("EMPTY",       SE_BUILD(0, 0, 0, 0), SE_BUILD(0, 0, 0, 0), SE_BUILD(0, 0, 0, 0), SE_BUILD(0, 0, 0, 0), COL_NONE)
+    Metatile("EMPTY",       SE_BUILD(0, 0, 0, 0), SE_BUILD(0, 0, 0, 0), SE_BUILD(0, 0, 0, 0), SE_BUILD(0, 0, 0, 0), COL_NONE)
     
 };

diff --git a/src/chr.c b/src/chr.c
@@ -1,17 +1,11 @@
 #include "main.h"
 
 const u16 blockPalette[] = {
-    0x7C00,0x6800,0x5400,0x3C00,0x2800,0x1400,0x0000,0x7D4A,
-    0x7EB5,0x7FFF,0x540A,0x3C10,0x2815,0x141A,0x0000,0x0000,
-
-    0x7C00,0x6800,0x5400,0x3C00,0x2800,0x1400,0x0000,0x7D4A,
-    0x7EB5,0x7FFF,0x540A,0x3C10,0x2815,0x141A,0x0000,0x0000,
-    
-    0x7C00,0x6800,0x5400,0x3C00,0x2800,0x1400,0x0000,0x7D4A,
-    0x7EB5,0x7FFF,0x540A,0x3C10,0x2815,0x141A,0x0000,0x0000,
-    
-    0x7C00,0x6800,0x5400,0x3C00,0x2800,0x1400,0x0000,0x7D4A,
-    0x7EB5,0x7FFF,0x540A,0x3C10,0x2815,0x141A,0x0000,0x0000,
+    0x7C00, 0x6800, 0x5400, 0x3C00, 0x2800, 0x1400, 0x0000, 0x7D4A, 0x7EB5, 0x7FFF, 0x540A, 0x3C10, 0x2815, 0x141A, 0x0000, 0x0000,
+    0x7C00, 0x6800, 0x5400, 0x3C00, 0x2800, 0x1400, 0x0000, 0x7D4A, 0x7EB5, 0x7FFF, 0x540A, 0x3C10, 0x2815, 0x141A, 0x0000, 0x0000,
+    0x7C00, 0x6800, 0x5400, 0x3C00, 0x2800, 0x1400, 0x0000, 0x7D4A, 0x7EB5, 0x7FFF, 0x540A, 0x3C10, 0x2815, 0x141A, 0x0000, 0x0000,
+    0x7C00, 0x6800, 0x5400, 0x3C00, 0x2800, 0x1400, 0x0000, 0x7D4A, 0x7EB5, 0x7FFF, 0x540A, 0x3C10, 0x2815, 0x141A, 0x0000, 0x0000,
+    0x7C00, 0x7C00, 0x6800, 0x5400, 0x3C00, 0x2800, 0x1400, 0x0000, 0x7FFF, 0x0000, 0x0000, 0x0000, 0x0000, 0x0000, 0x0000, 0x0000
 };
 
 const u16 spritePalette[] = {

diff --git a/src/decompression.c b/src/decompression.c
@@ -47,14 +47,11 @@ void decompress_first_screen() {
 
 void put_ground_column() {
     // Put ground column in the first layer, no need to put it in both as l1  will hide l2's ground
+    s32 count = 0;
     for (s32 i = GROUND_HEIGHT; i < MAX_LEVEL_HEIGHT; i++) {
-        if (i == GROUND_HEIGHT) {
-            // If we are at the first row of blocks, use the top row blocks
-            level_buffer[0][curr_column + (i * LEVEL_BUFFER_WIDTH)] = ground_pattern[curr_column & 0x3];
-        } else {
-            // Else, the middle ground blocks
-            level_buffer[0][curr_column + (i * LEVEL_BUFFER_WIDTH)] = ground_pattern[4 + (curr_column & 0x3)];
-        }
+        // If we are at the first row of blocks, use the top row blocks
+        level_buffer[0][curr_column + (i * LEVEL_BUFFER_WIDTH)] = ground_pattern[(count << 2) + (curr_column & 0x3)];
+        count++;
     }
 }
 void increment_column() {

diff --git a/include/collision.h b/include/collision.h
@@ -3,10 +3,21 @@
 void collision_cube();
 void collision_ship();
 
-#define GROUND_TILE_1 2
-#define GROUND_TILE_2 2
-#define GROUND_TILE_3 2
-#define GROUND_TILE_4 2
+#define GROUND_TILE_1 0xb0
+#define GROUND_TILE_2 0xb1
+#define GROUND_TILE_3 0xb2
+
+#define GROUND_TILE_4 0xc0
+#define GROUND_TILE_5 0xc1
+#define GROUND_TILE_6 0xc2
+
+#define GROUND_TILE_7 0xd0
+#define GROUND_TILE_8 0xd1
+#define GROUND_TILE_9 0xd2
+
+#define GROUND_TILE_A 0xe0
+#define GROUND_TILE_B 0xe1
+#define GROUND_TILE_C 0xe2
 
 enum COL_TYPES {
     COL_NONE,

diff --git a/src/collision.c b/src/collision.c
@@ -3,8 +3,10 @@
 
 // Ground pattern
 const u16 ground_pattern[] = {
-    GROUND_TILE_1, GROUND_TILE_2, GROUND_TILE_2, GROUND_TILE_2,
-    GROUND_TILE_3, GROUND_TILE_4, GROUND_TILE_4, GROUND_TILE_4
+    GROUND_TILE_1, GROUND_TILE_2, GROUND_TILE_2, GROUND_TILE_3,
+    GROUND_TILE_4, GROUND_TILE_5, GROUND_TILE_5, GROUND_TILE_6,
+    GROUND_TILE_7, GROUND_TILE_8, GROUND_TILE_8, GROUND_TILE_9,
+    GROUND_TILE_A, GROUND_TILE_B, GROUND_TILE_B, GROUND_TILE_C,
 };
 
 // Pixel to check collision on.

diff --git a/include/chr.h b/include/chr.h
@@ -2,5 +2,5 @@
 #include "../graphics/includes.h"
 #include "portal.png.h"
 
-extern const u16 blockPalette[64];
+extern const u16 blockPalette[80];
 extern const u16 spritePalette[48];
